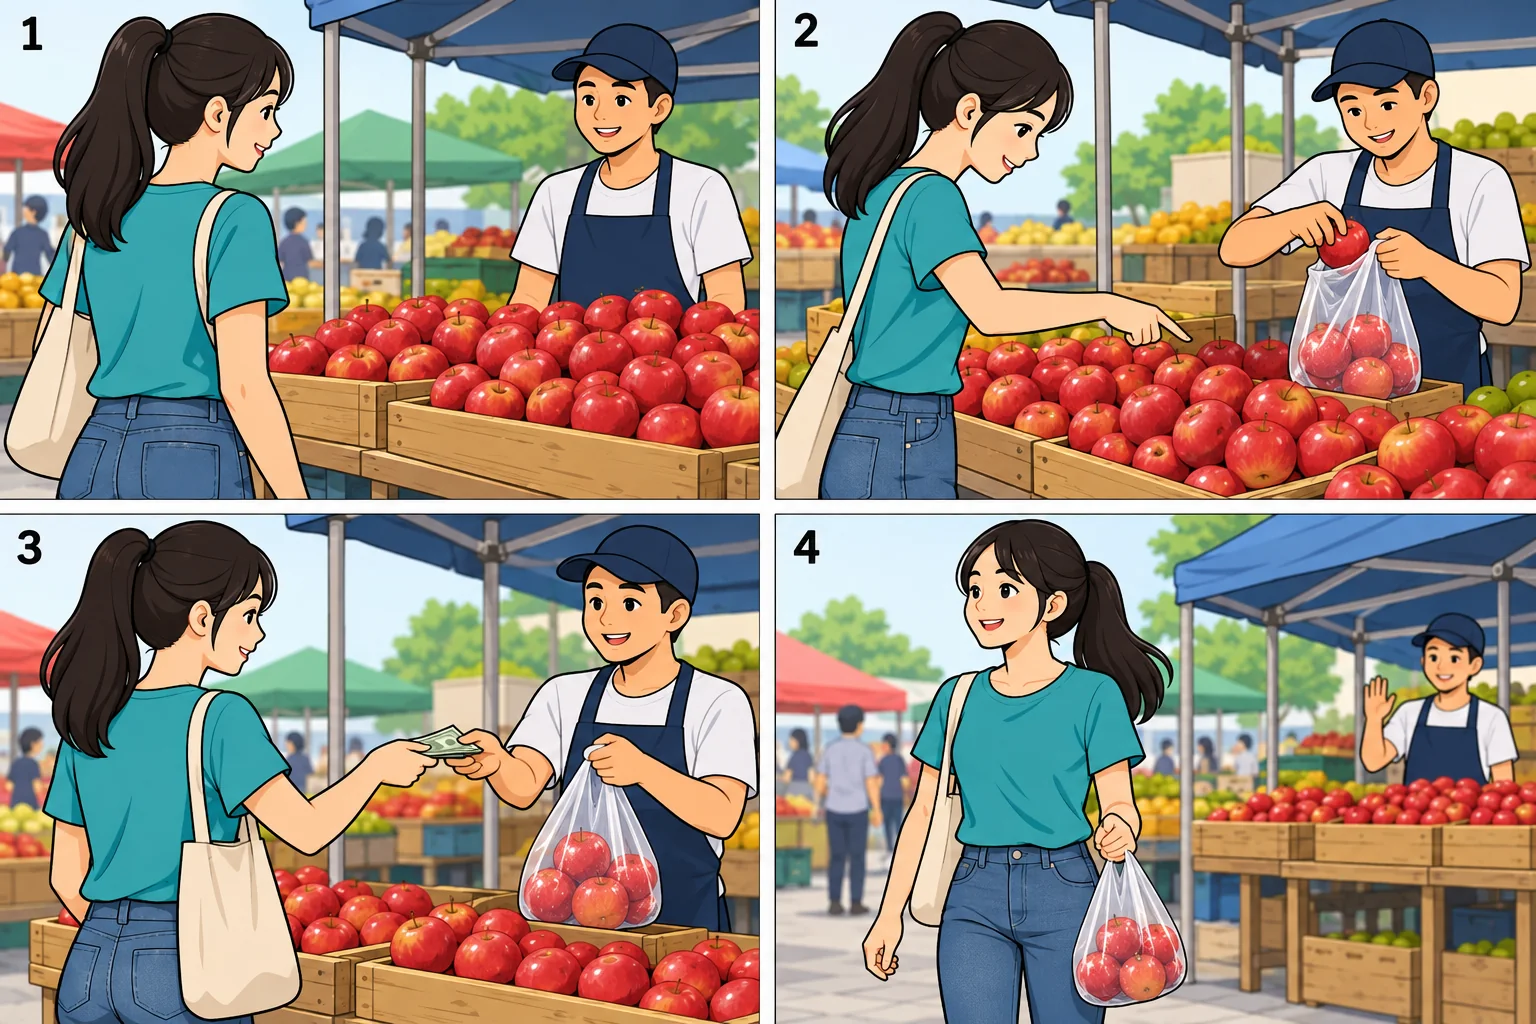
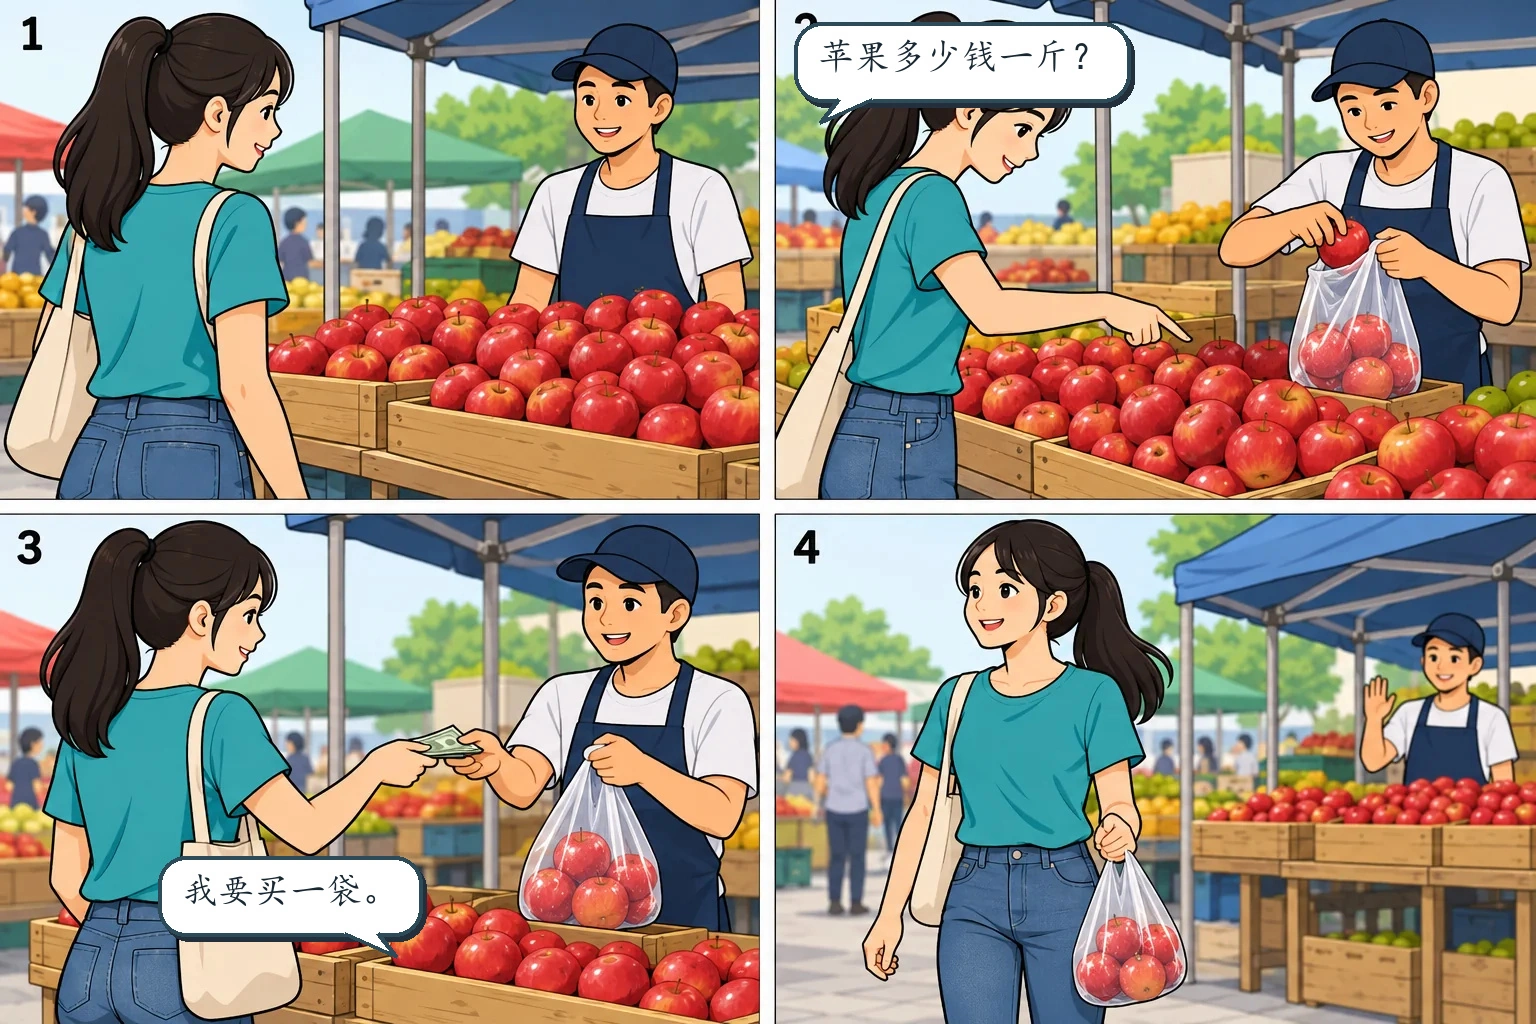
feat(oral-practice): add conversation cues to picture cards

Changed region(s): [[0.5, 0.0, 0.75, 0.125], [0.0938, 0.8125, 0.2812, 0.9375]]

diff --git a/classroom-tools/speaking-challenge/exam/content.js b/classroom-tools/speaking-challenge/exam/content.js
@@ -271,73 +271,73 @@ window.ORAL_EXAM_BANK = {
     {
       "id": "B01",
       "title": "三个人见面",
-      "src": "assets/B01.webp",
+      "src": "assets/B01.webp?v=20261026-bubbles1",
       "alt": "三个人见面，按1到4的顺序讲述四张图片。"
     },
     {
       "id": "B02",
       "title": "谁的本子",
-      "src": "assets/B02.webp",
+      "src": "assets/B02.webp?v=20261026-bubbles1",
       "alt": "谁的本子，按1到4的顺序讲述四张图片。"
     },
     {
       "id": "B03",
       "title": "朋友在外边",
-      "src": "assets/B03.webp",
+      "src": "assets/B03.webp?v=20261026-bubbles1",
       "alt": "朋友在外边，按1到4的顺序讲述四张图片。"
     },
     {
       "id": "B04",
       "title": "下午见朋友",
-      "src": "assets/B04.webp",
+      "src": "assets/B04.webp?v=20261026-bubbles1",
       "alt": "下午见朋友，按1到4的顺序讲述四张图片。"
     },
     {
       "id": "B05",
       "title": "坐车去学校",
-      "src": "assets/B05.webp",
+      "src": "assets/B05.webp?v=20261026-bubbles1",
       "alt": "坐车去学校，按1到4的顺序讲述四张图片。"
     },
     {
       "id": "B06",
       "title": "买苹果",
-      "src": "assets/B06.webp",
+      "src": "assets/B06.webp?v=20261026-bubbles1",
       "alt": "买苹果，按1到4的顺序讲述四张图片。"
     },
     {
       "id": "B07",
       "title": "下雨了",
-      "src": "assets/B07.webp",
+      "src": "assets/B07.webp?v=20261026-bubbles1",
       "alt": "下雨了，按1到4的顺序讲述四张图片。"
     },
     {
       "id": "B08",
       "title": "朋友来了",
-      "src": "assets/B08.webp",
+      "src": "assets/B08.webp?v=20261026-bubbles1",
       "alt": "朋友来了，按1到4的顺序讲述四张图片。"
     },
     {
       "id": "B09",
       "title": "选蓝衣服",
-      "src": "assets/B09.webp",
+      "src": "assets/B09.webp?v=20261026-bubbles1",
       "alt": "选蓝衣服，按1到4的顺序讲述四张图片。"
     },
     {
       "id": "B10",
       "title": "小美过生日",
-      "src": "assets/B10.webp",
+      "src": "assets/B10.webp?v=20261026-bubbles1",
       "alt": "小美过生日，按1到4的顺序讲述四张图片。"
     },
     {
       "id": "B11",
       "title": "试衣服",
-      "src": "assets/B11.webp",
+      "src": "assets/B11.webp?v=20261026-bubbles1",
       "alt": "试衣服，按1到4的顺序讲述四张图片。"
     },
     {
       "id": "B12",
       "title": "用同学的笔",
-      "src": "assets/B12.webp",
+      "src": "assets/B12.webp?v=20261026-bubbles1",
       "alt": "用同学的笔，按1到4的顺序讲述四张图片。"
     }
   ]

diff --git a/classroom-tools/speaking-challenge/exam/index.html b/classroom-tools/speaking-challenge/exam/index.html
@@ -9,9 +9,9 @@
   <meta name="description" content="自己抽题、看图、说中文。问题和四格图片同时显示，准备1分钟，再用2分钟练习回答。">
   <title>口语练习｜问题与图片</title>
   <link rel="stylesheet" href="styles.css">
-  <script defer src="content.js?v=20261026-approved30"></script>
+  <script defer src="content.js?v=20261026-bubbles1"></script>
   <script defer src="logic.js"></script>
-  <script defer src="app.js?v=20261026-approved30"></script>
+  <script defer src="app.js?v=20261026-bubbles1"></script>
 </head>
 <body>
   <main class="exam-shell">

diff --git a/classroom-tools/speaking-challenge/exam/README.md b/classroom-tools/speaking-challenge/exam/README.md
@@ -19,4 +19,4 @@
 
 计时逻辑检查：`node --test classroom-tools/speaking-challenge/exam/test-logic.mjs`。
 
-2026-10-26：题干及提示依教师手动修改的30题总表更新。提示可为空或多条；每次从30道问题与12张图片中各独立随机抽取一题，共360种组合。
+2026-10-26：题干及提示依教师手动修改的30题总表更新。12张四格图补上简短对话提示；问题与图片仍独立随机抽取，每次各抽一题，共360种组合。
